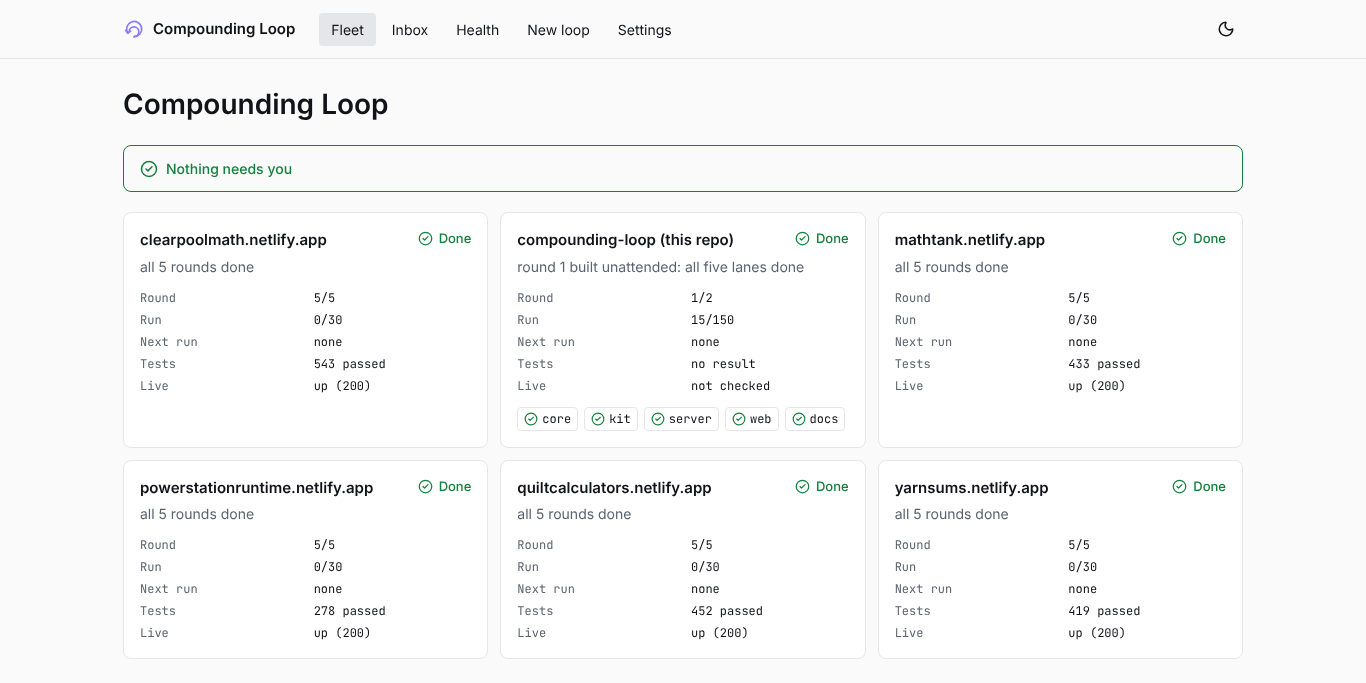
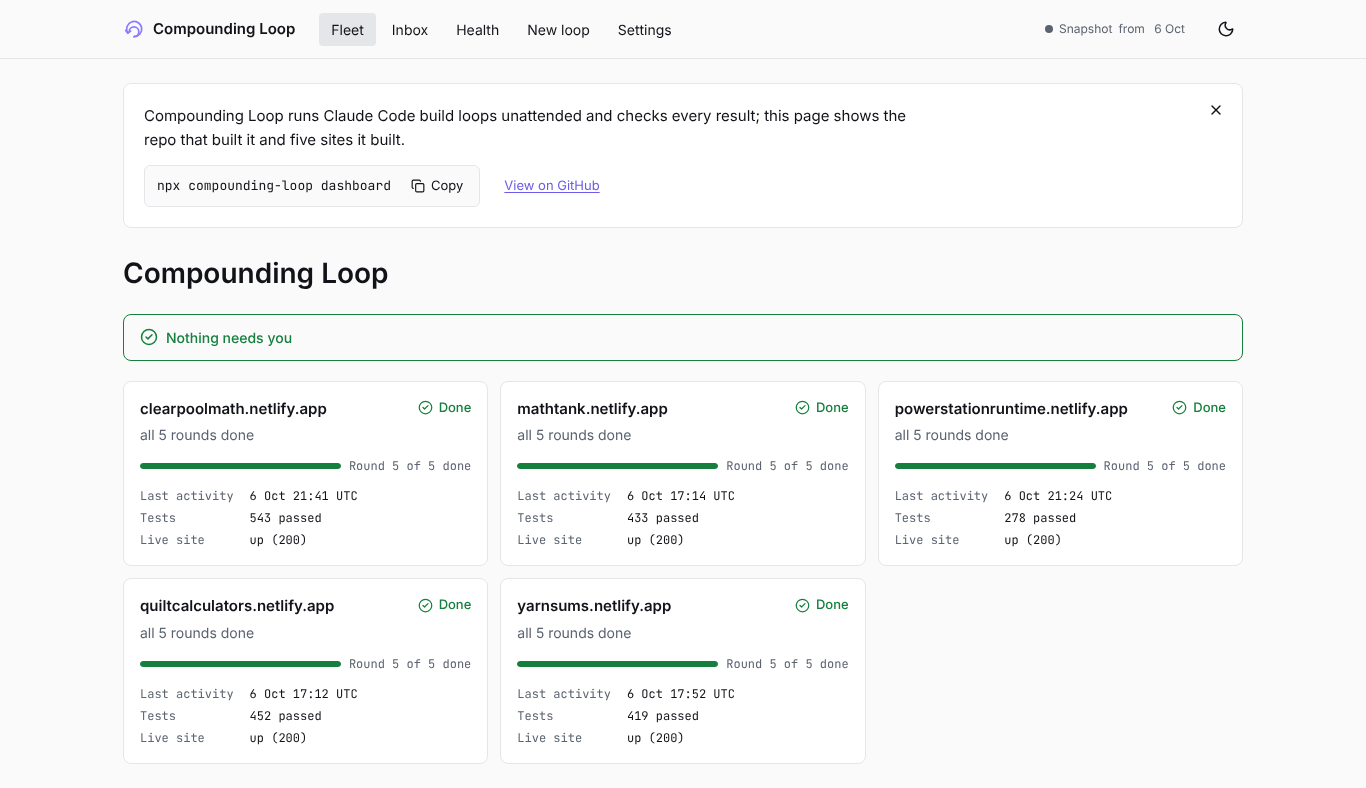
web: after screenshots in demo mode (strip, chip, self-build loop), design review recorded
Lane: web
Claude-Session: https://claude.ai/code/session_01Nooz8boGssbjmm4ZqxtDqH

diff --git a/tests/e2e/screenshots.spec.ts b/tests/e2e/screenshots.spec.ts
@@ -4,7 +4,7 @@ import { test } from '@playwright/test';
 // Not part of `npm test`. Refresh the shipped screens with `SCREENS=1 npx playwright test screenshots --project=laptop`.
 // Design-review sets (before/after, 1440 and 375 px, both themes):
 //   SCREENS=1 SCREENS_DIR=web/design/before npx playwright test screenshots --project=laptop
-const screens: Record<string, string> = { fleet: '/', loop: '/loop/proj2', inbox: '/inbox', health: '/health', settings: '/settings', new: '/new' };
+const screens: Record<string, string> = { fleet: '/', loop: '/loop/proj2', self: '/loop/compounding-loop', inbox: '/inbox', health: '/health', settings: '/settings', new: '/new' };
 const sizes: Record<string, { width: number; height: number }> = { desktop: { width: 1440, height: 900 }, phone: { width: 375, height: 812 } };
 
 test.skip(!process.env['SCREENS'], 'screenshots are generated on demand');
@@ -18,6 +18,9 @@ for (const [size, viewport] of sets) {
       test(`screenshot ${name} ${theme} ${size}`, async ({ page }, info) => {
         mkdirSync(dir, { recursive: true });
         if (viewport) await page.setViewportSize(viewport);
+        // Shoot demo mode as a visitor sees it (welcome strip, snapshot chip): no dashboard server.
+        // The self-build loop only exists on a running server (the bundled snapshot is the five sites).
+        if (name !== 'self') await page.route('**/api/health', (route) => route.fulfill({ status: 404, contentType: 'application/json', body: '{}' }));
         await page.emulateMedia({ colorScheme: theme });
         await page.goto(`/#${route}`);
         await page.waitForLoadState('networkidle');

diff --git a/.ai/audit/web.md b/.ai/audit/web.md
@@ -51,3 +51,9 @@ None open.
 | 6 | Settings | Already wired to `GET /api/settings` with an e2e (`screens.spec.ts`: "settings shows the server settings"). Unit 3 is done. | ok |
 | 7 | 375 px and motion | `tests/e2e/layout.spec.ts` asserts no horizontal overflow at 375 px on all screens incl. the laned loop; `index.css` honours `prefers-reduced-motion`. Screenshots in `docs/assets/screens/`. | ok |
 | 8 | Long text | New layout e2e feeds a 140-char name, a path-like reason, commit subject and unanswered message at 375 px. It found real overflow (Fleet reason, Lanes commit line); fixed with `overflow-wrap:anywhere`. Empty and loading states are covered by `QueryState` and the "No loops yet" card (screens.spec.ts). | ok (fixed) |
+
+## Round 3 independent design review (2026-10-11, run 6)
+Reviewer subagent (did not write the UI) compared `web/design/after/*` with DESIGN.md §5/§10 and IDEA.md.
+- Its three blockers (no welcome strip, no live/snapshot chip, no lane features) were a capture fault: the screenshots ran against a live dashboard server, which hides the strip and chip by design, and showed a non-lane site. Fixed in `tests/e2e/screenshots.spec.ts` (demo mode via a 404 health route; new `self` screen for the self-build loop). Re-shot: strip, chip, lane colours, lane filter, day groups and commits-per-day chart are visible.
+- Still open, minor: loop header shows "Round 2/3 · Run 36/250" as mono text (no bar); phone tab rows clip "Settings" without a scroll cue and loop tabs wrap to two rows; self-build card story line contradicts its "Done" badge when live data is stale; fleet cards lack run bars; orphan card in the 3-up grid; the bundled snapshot has no self-build card (server's data, dated 6 Oct).
+- Not reviewed by the subagent: inbox, health, new, settings, and states (covered by axe and e2e).

diff --git a/.ai/lanes/web/task.md b/.ai/lanes/web/task.md
@@ -1,6 +1,6 @@
 # Lane: web — round 3 (0.3.0 "Showcase")
 
-Run: 5 / 20
+Run: 6 / 20
 Status: in progress (units 1-7 and 5 done; unit 8 partly; unit 9 last)
 Round 2 record: `.ai/lanes/web/done-v2.md` (`git show 084bb9f:.ai/lanes/web/task.md` for its Decisions).
 
